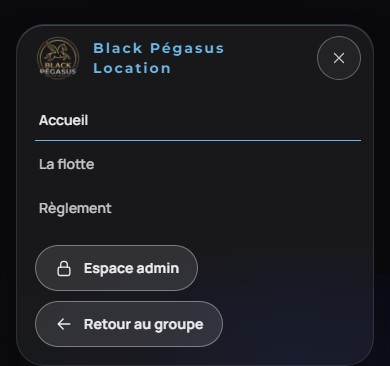
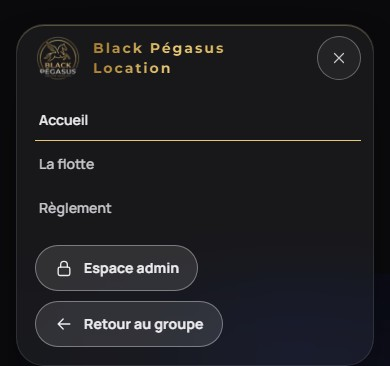
site : conserver le style or du header

Changed region(s): [[0.0923, 0.3607, 0.9231, 0.3907], [0.2154, 0.0902, 0.5846, 0.2104]]

diff --git a/src/composants/site/BarreSite.tsx b/src/composants/site/BarreSite.tsx
@@ -2,12 +2,9 @@ import Image from "next/image";
 import Link from "next/link";
 import type { ReactNode } from "react";
 
-export function BarreSite({ filiale, children }: { filiale?: string; children: ReactNode }) {
+export function BarreSite({ children }: { children: ReactNode }) {
   return (
-    <div
-      data-filiale={filiale}
-      className="glass-site flex flex-wrap items-center justify-between gap-x-7 gap-y-4 rounded-[28px] py-2.5 pr-3 pl-[18px] lg:rounded-full"
-    >
+    <div className="glass-site flex flex-wrap items-center justify-between gap-x-7 gap-y-4 rounded-[28px] py-2.5 pr-3 pl-[18px] lg:rounded-full">
       {children}
     </div>
   );
@@ -25,7 +22,7 @@ export function LogoSite({ nom, logo, href }: { nom: string; logo: string; href:
         className="rounded-full object-contain"
       />
       <span className="flex flex-col gap-[3px]">
-        <span className="max-w-[160px] texte-or mot-symbole text-sm sm:max-w-[220px]">{nom}</span>
+        <span className="max-w-[160px] texte-or mot-symbole text-sm">{nom}</span>
         <span className="sr-only">– Accueil</span>
       </span>
     </Link>

diff --git a/src/composants/site/NavSite.tsx b/src/composants/site/NavSite.tsx
@@ -37,7 +37,7 @@ export function NavSite({
       ];
 
   return (
-    <BarreSite filiale={filiale?.slug}>
+    <BarreSite>
       <LogoSite
         nom={filiale?.nom ?? nomGroupe}
         logo={filiale?.logo ?? "/images/logos/bp-compagnie.webp"}

diff --git a/docs/validations/f2/README.md b/docs/validations/f2/README.md
@@ -6,9 +6,11 @@ Les filiales visibles sont triées par ordre d’affichage puis par code. Leur i
 
 Le groupe, le panel et les PDF gardent la palette or. Les sections de filiale utilisent les accents prévus : bleu pour Location, vert pour Formation, violet pour Cards. Les contrastes des accents et du texte sur les boutons sont vérifiés par les tests navigateur.
 
-Après le retour utilisateur sur F-2, la barre principale devient celle de la filiale visitée : logo, nom, accent et liens propres à cette filiale. Location affiche Accueil, La flotte et Règlement. « Retour au groupe » apparaît à droite d’« Espace admin ». Le logo renvoie à l’accueil de l’espace courant et la seconde barre de Location est retirée. La navigation s’adapte également lors d’un changement de page sans rechargement, et dans le menu mobile.
+Après le retour utilisateur sur F-2, la barre principale devient celle de la filiale visitée : logo, nom et liens propres à cette filiale. Elle conserve son style initial or et verre, avec un nom compact sur deux lignes. Location affiche Accueil, La flotte et Règlement. « Retour au groupe » apparaît à droite d’« Espace admin ». Le logo renvoie à l’accueil de l’espace courant et la seconde barre de Location est retirée. La navigation s’adapte également lors d’un changement de page sans rechargement, et dans le menu mobile.
 
 Cet ajustement a été validé par le lint, les 273 tests unitaires, la compilation de production et les tests ciblés des fichiers `site.spec.ts`, `filiales.spec.ts` et `finitions.spec.ts` (27 parcours). L’audit mobile attend le titre et la fin du chargement avant de démarrer axe.
+
+Le maintien du style initial or et verre a ensuite été revérifié par les 12 tests du site, le lint et le build ; les captures de Location ont été actualisées.
 
 La migration `20261107140000_site_groupe` ajoute `Parametres.textesGroupe` et renseigne les installations existantes. Le seed et l’initialisation de production utilisent les mêmes textes de départ. Aucune nouvelle variable d’environnement ni dépendance d’exécution n’est nécessaire.
 
